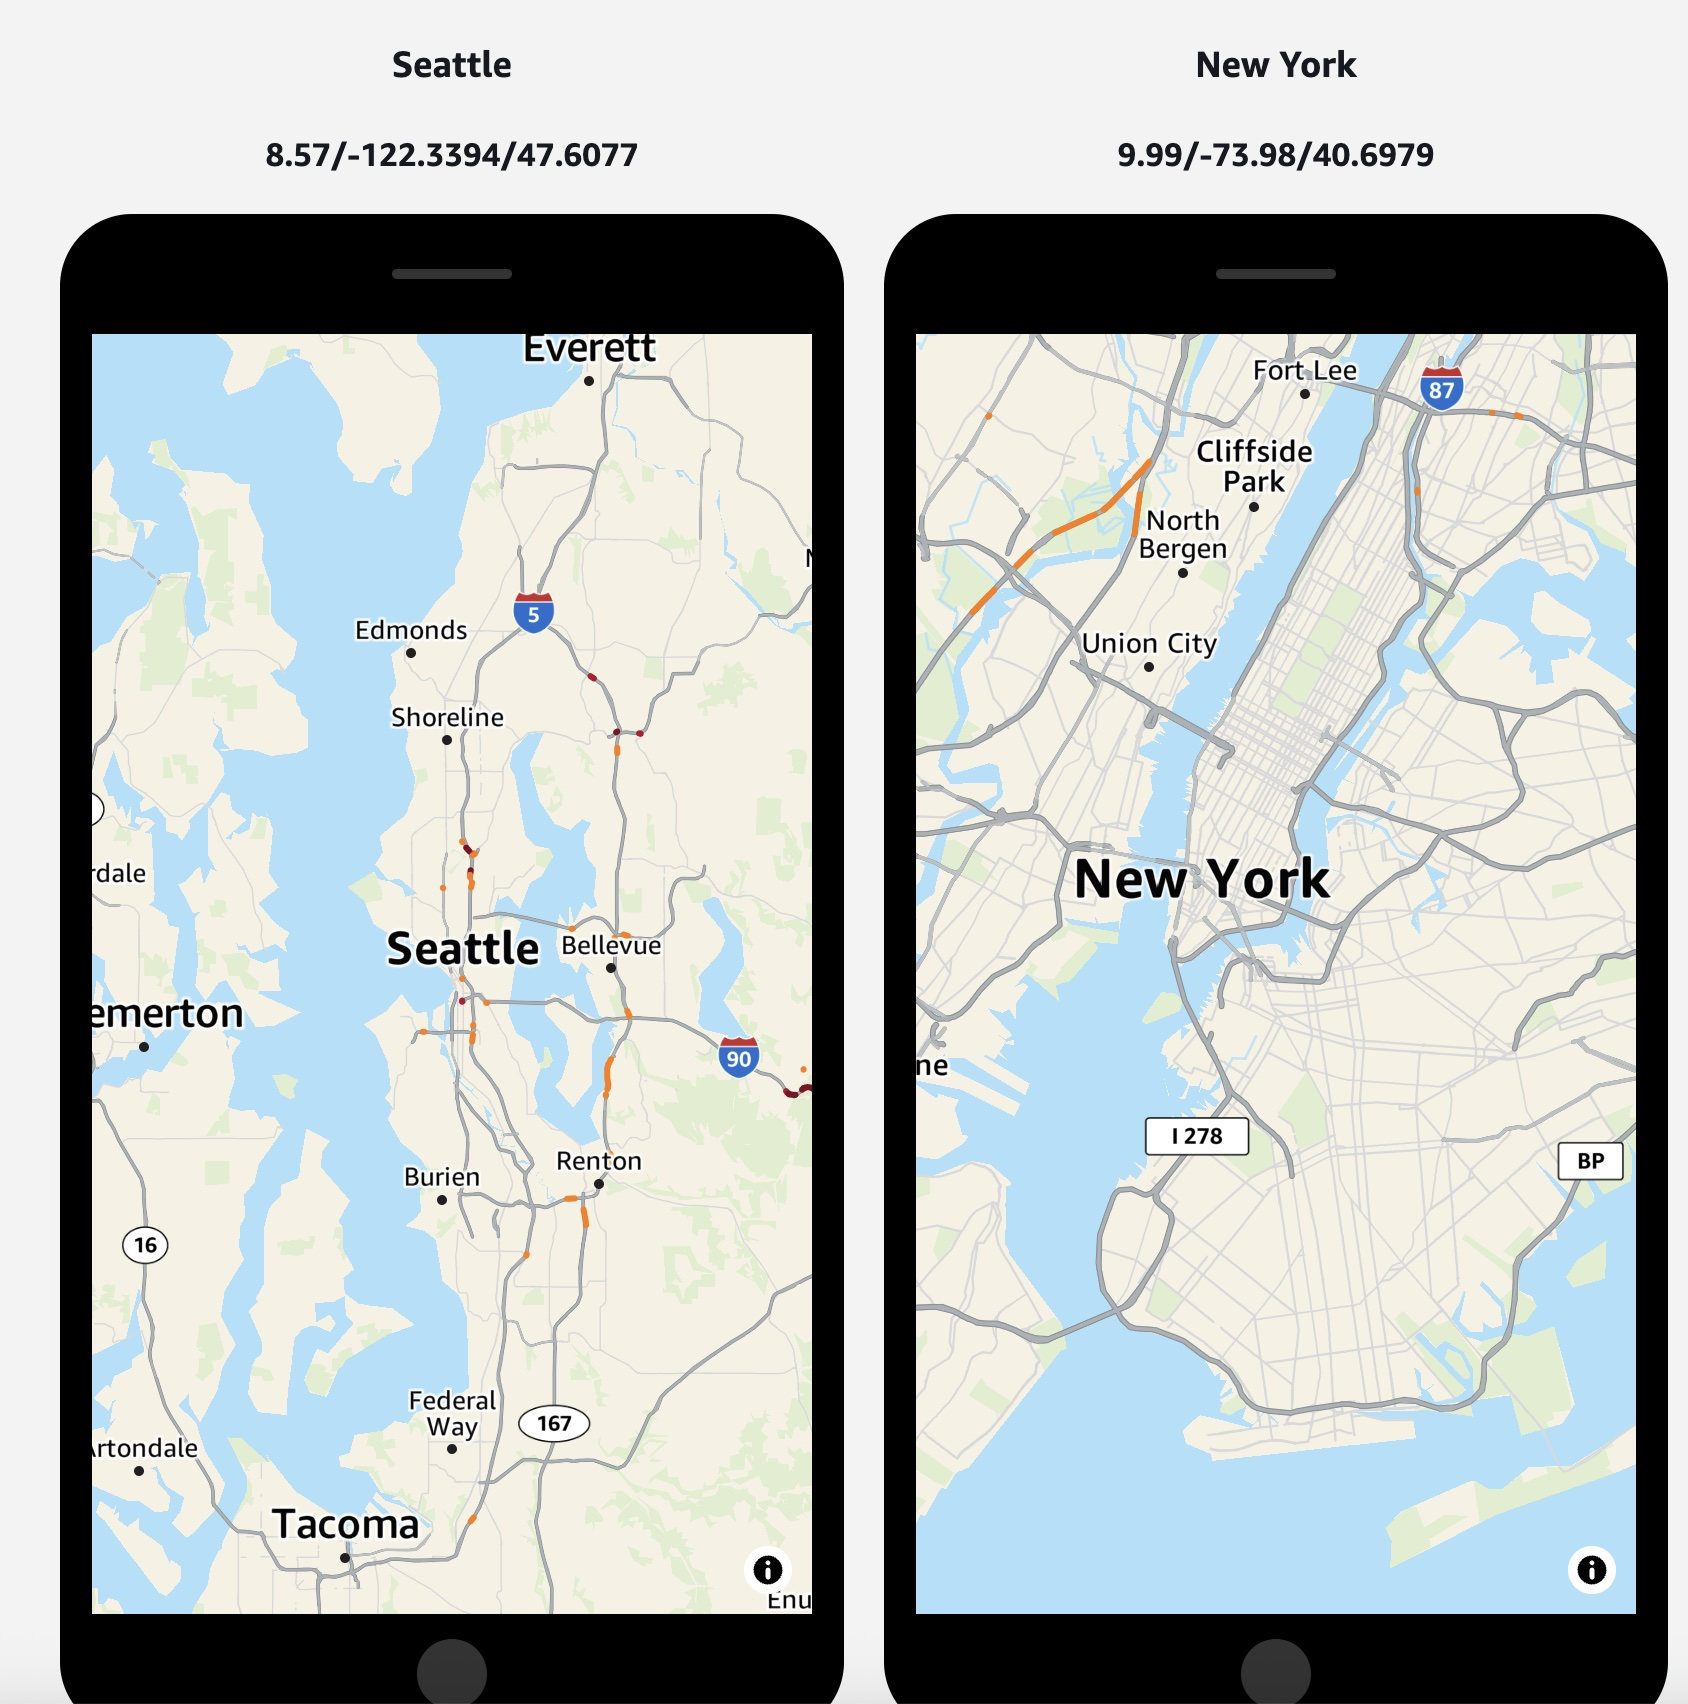
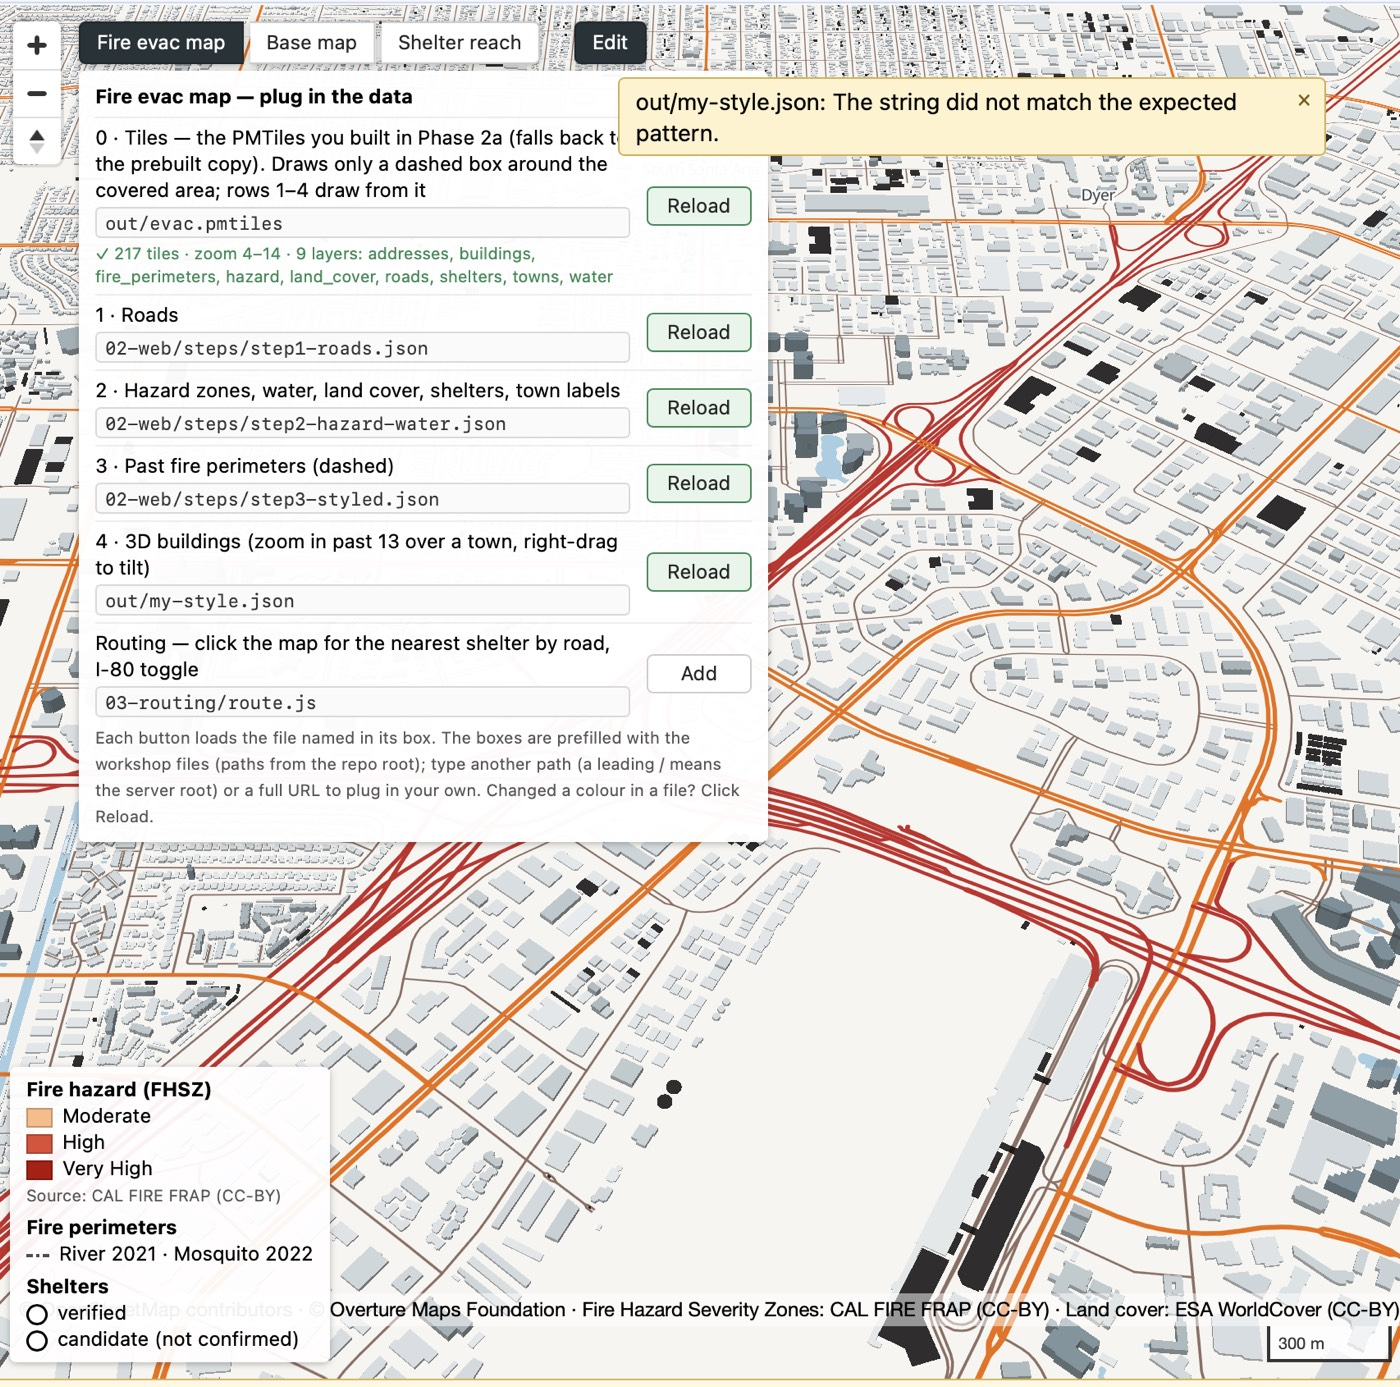
README ▸ Change the look: use the real result screenshot (row 4 on out/my-style.json, recoloured roads/buildings, typo notice) instead of the wrong image

diff --git a/README.md b/README.md
@@ -791,11 +791,11 @@ Open `out/my-style.json` (the repo folder is the same on the laptop) and change 
 | `roads-major` — motorway/trunk, then primary/secondary | `"line-color"`: `["match", ["get","class"], [motorway…], "#555555", "#777777"]` | two greys | `"#c62828"`, `"#ef6c00"` (red freeways, orange highways) |
 | `buildings` — 3D footprints from zoom 13 | `"fill-extrusion-color"` | `"#d9d9d9"` | `"#b0bec5"`, or by height: `["interpolate", ["linear"], ["get","height"], 0, "#eceff1", 30, "#546e7a"]` |
 
-Where this leads — the same layer types (roads, water, land, places), a different style file: grey streets with coloured highway segments, blue water, pale land, town dots with labels. Every colour there is one line in the JSON, exactly like the table above.
-
-<img src="docs/img/p4-change-the-look.jpg" width="80%" alt="Two phone-sized maps, Seattle and New York, in a different style: grey streets, orange and red highway segments, blue water, pale land, town dots with labels"/>
-
 In the **Edit** panel type `out/my-style.json` into the row 4 box and click **Reload**. A layer with the same `id` replaces the one on the map; a JSON typo shows up as a notice naming the file (the browser's own JSON error — Chrome adds the line) and the map keeps the last good version. For the finished app, make the same edits in `demo/style.json` and refresh. Widths (`line-width`), opacity and the zoom at which a layer appears (`minzoom`) are edited the same way — [`02-web/exercises.md`](02-web/exercises.md) has more.
+
+✅ Row 4 reads `out/my-style.json` and the three edits are on the map: red freeways, orange highways, brown local streets, blue-grey buildings. The yellow notice is the typo case — a broken `out/my-style.json` is reported by name and the map keeps the last good version.
+
+<img src="docs/img/p4-change-the-look.jpg" width="80%" alt="Fire evac map with the Edit panel open, row 4 set to out/my-style.json: red freeways, orange highways, brown local streets, blue-grey 3D buildings, and a yellow notice reading out/my-style.json: The string did not match the expected pattern"/>
 
 </details>
 
